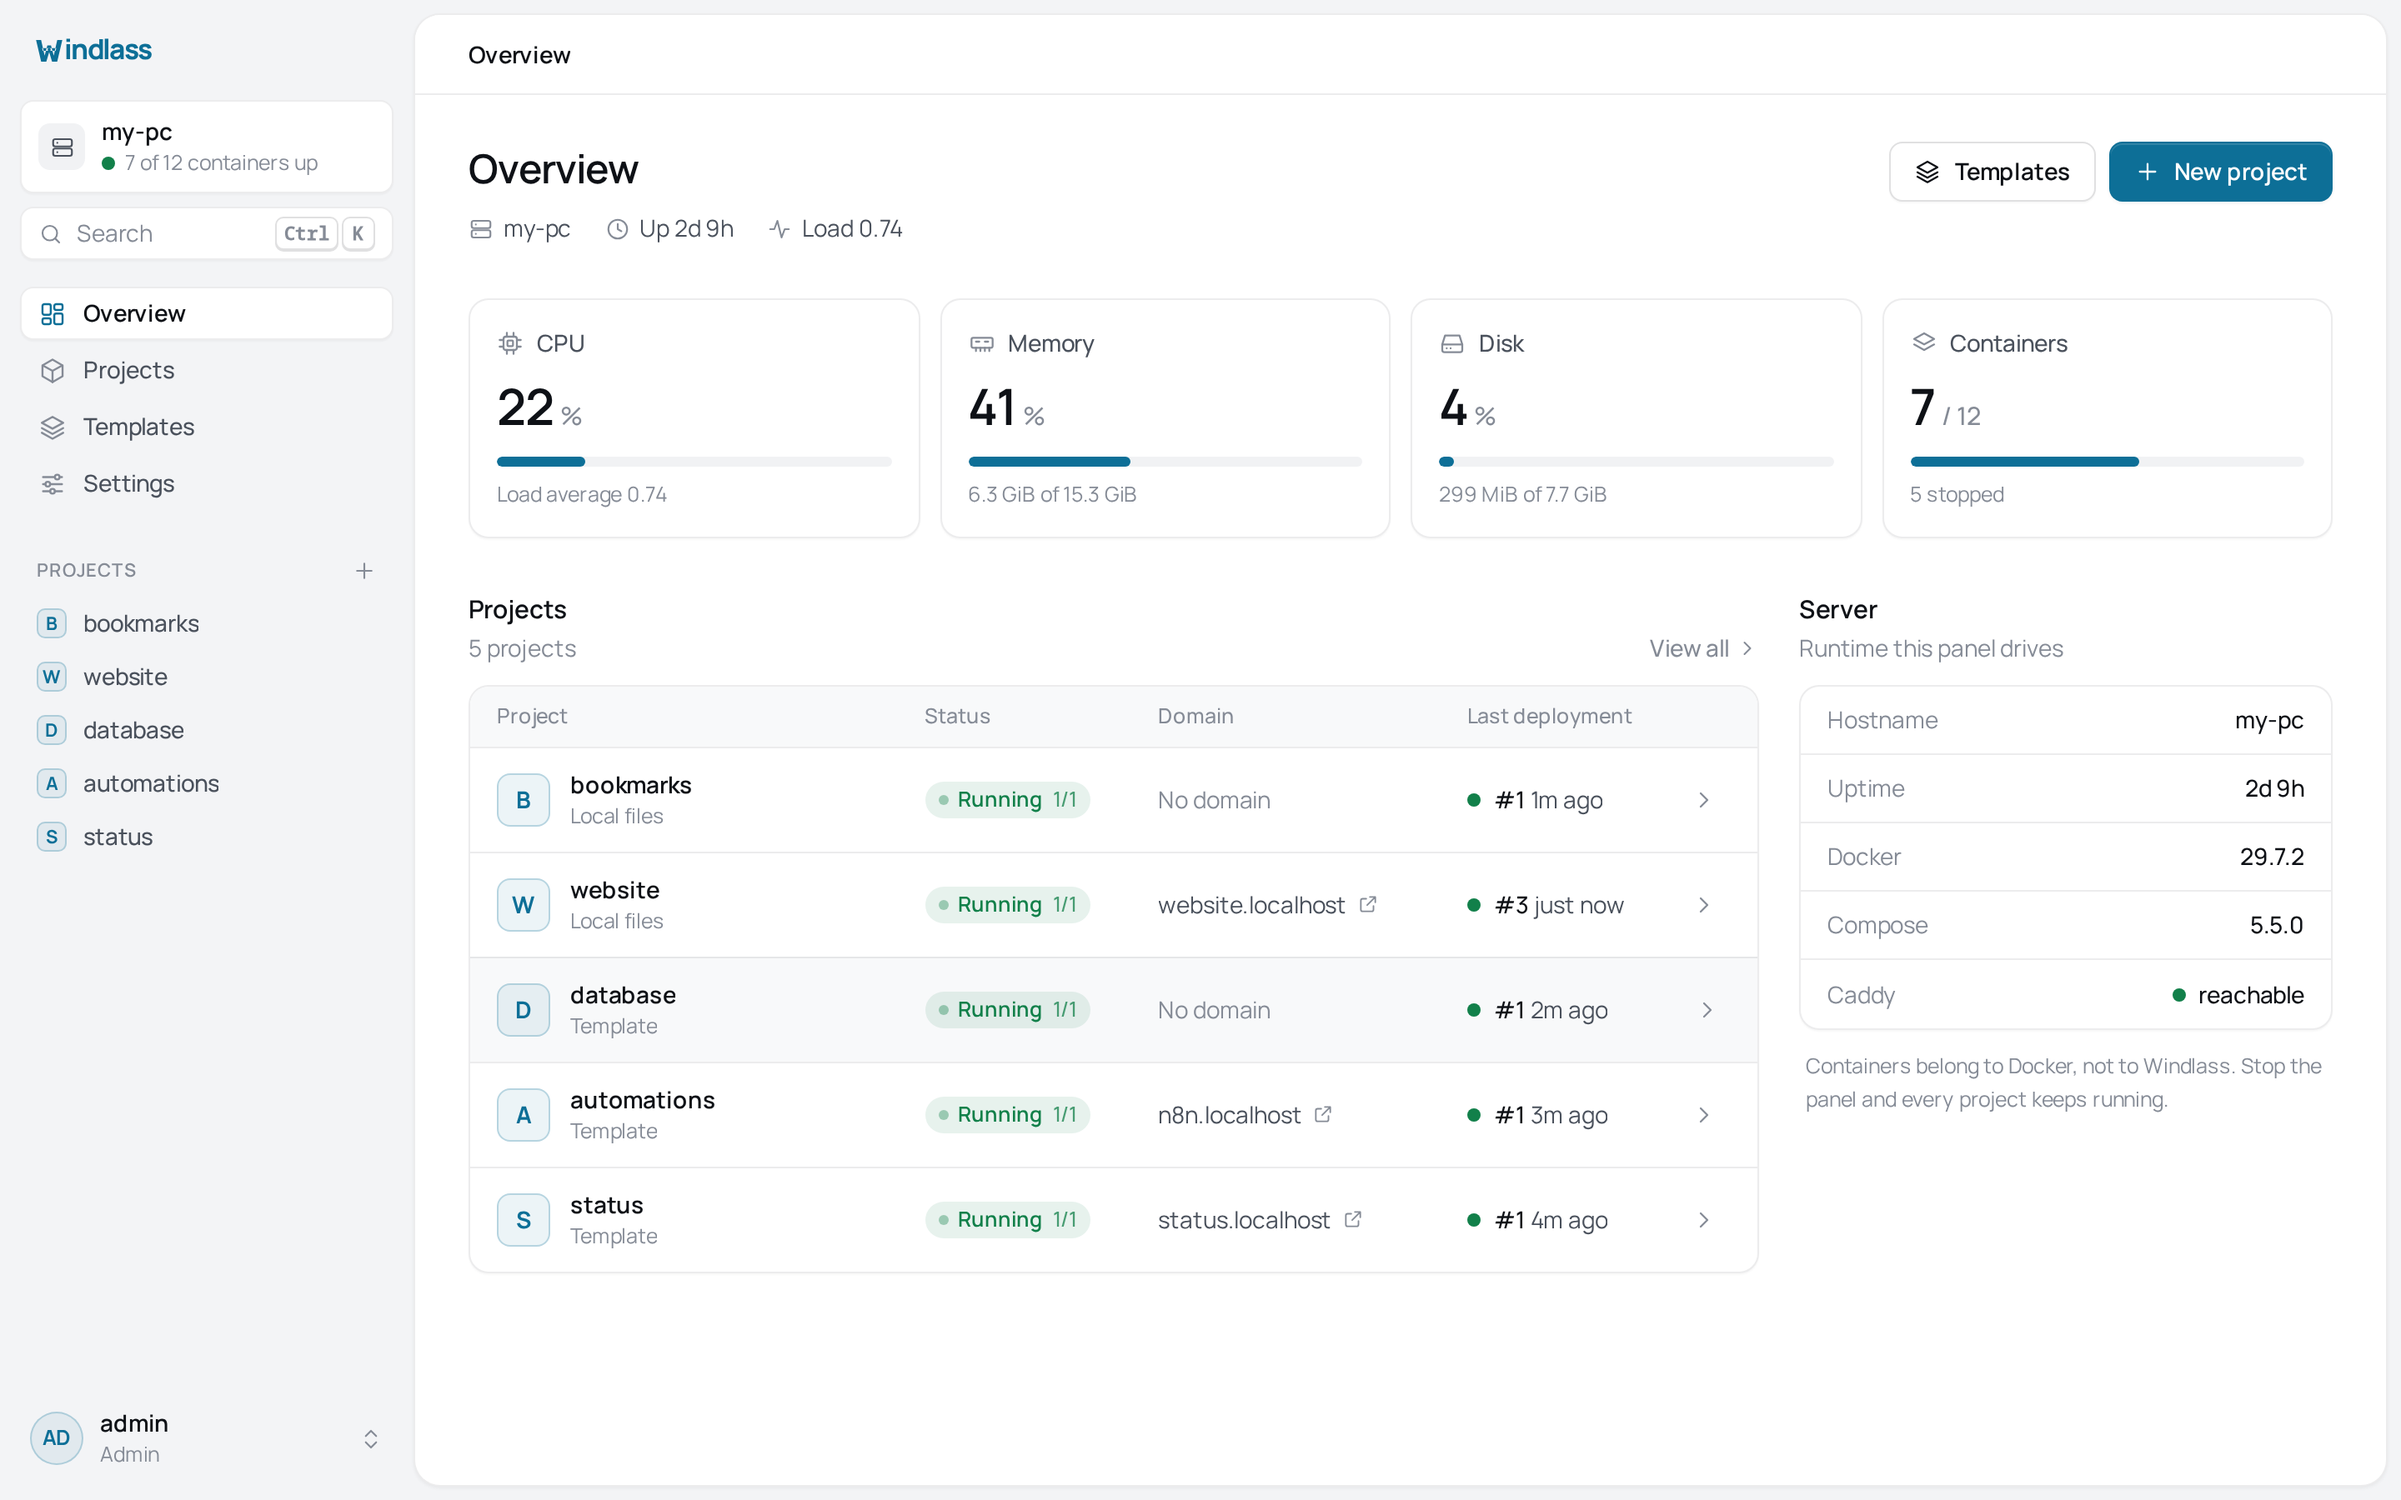
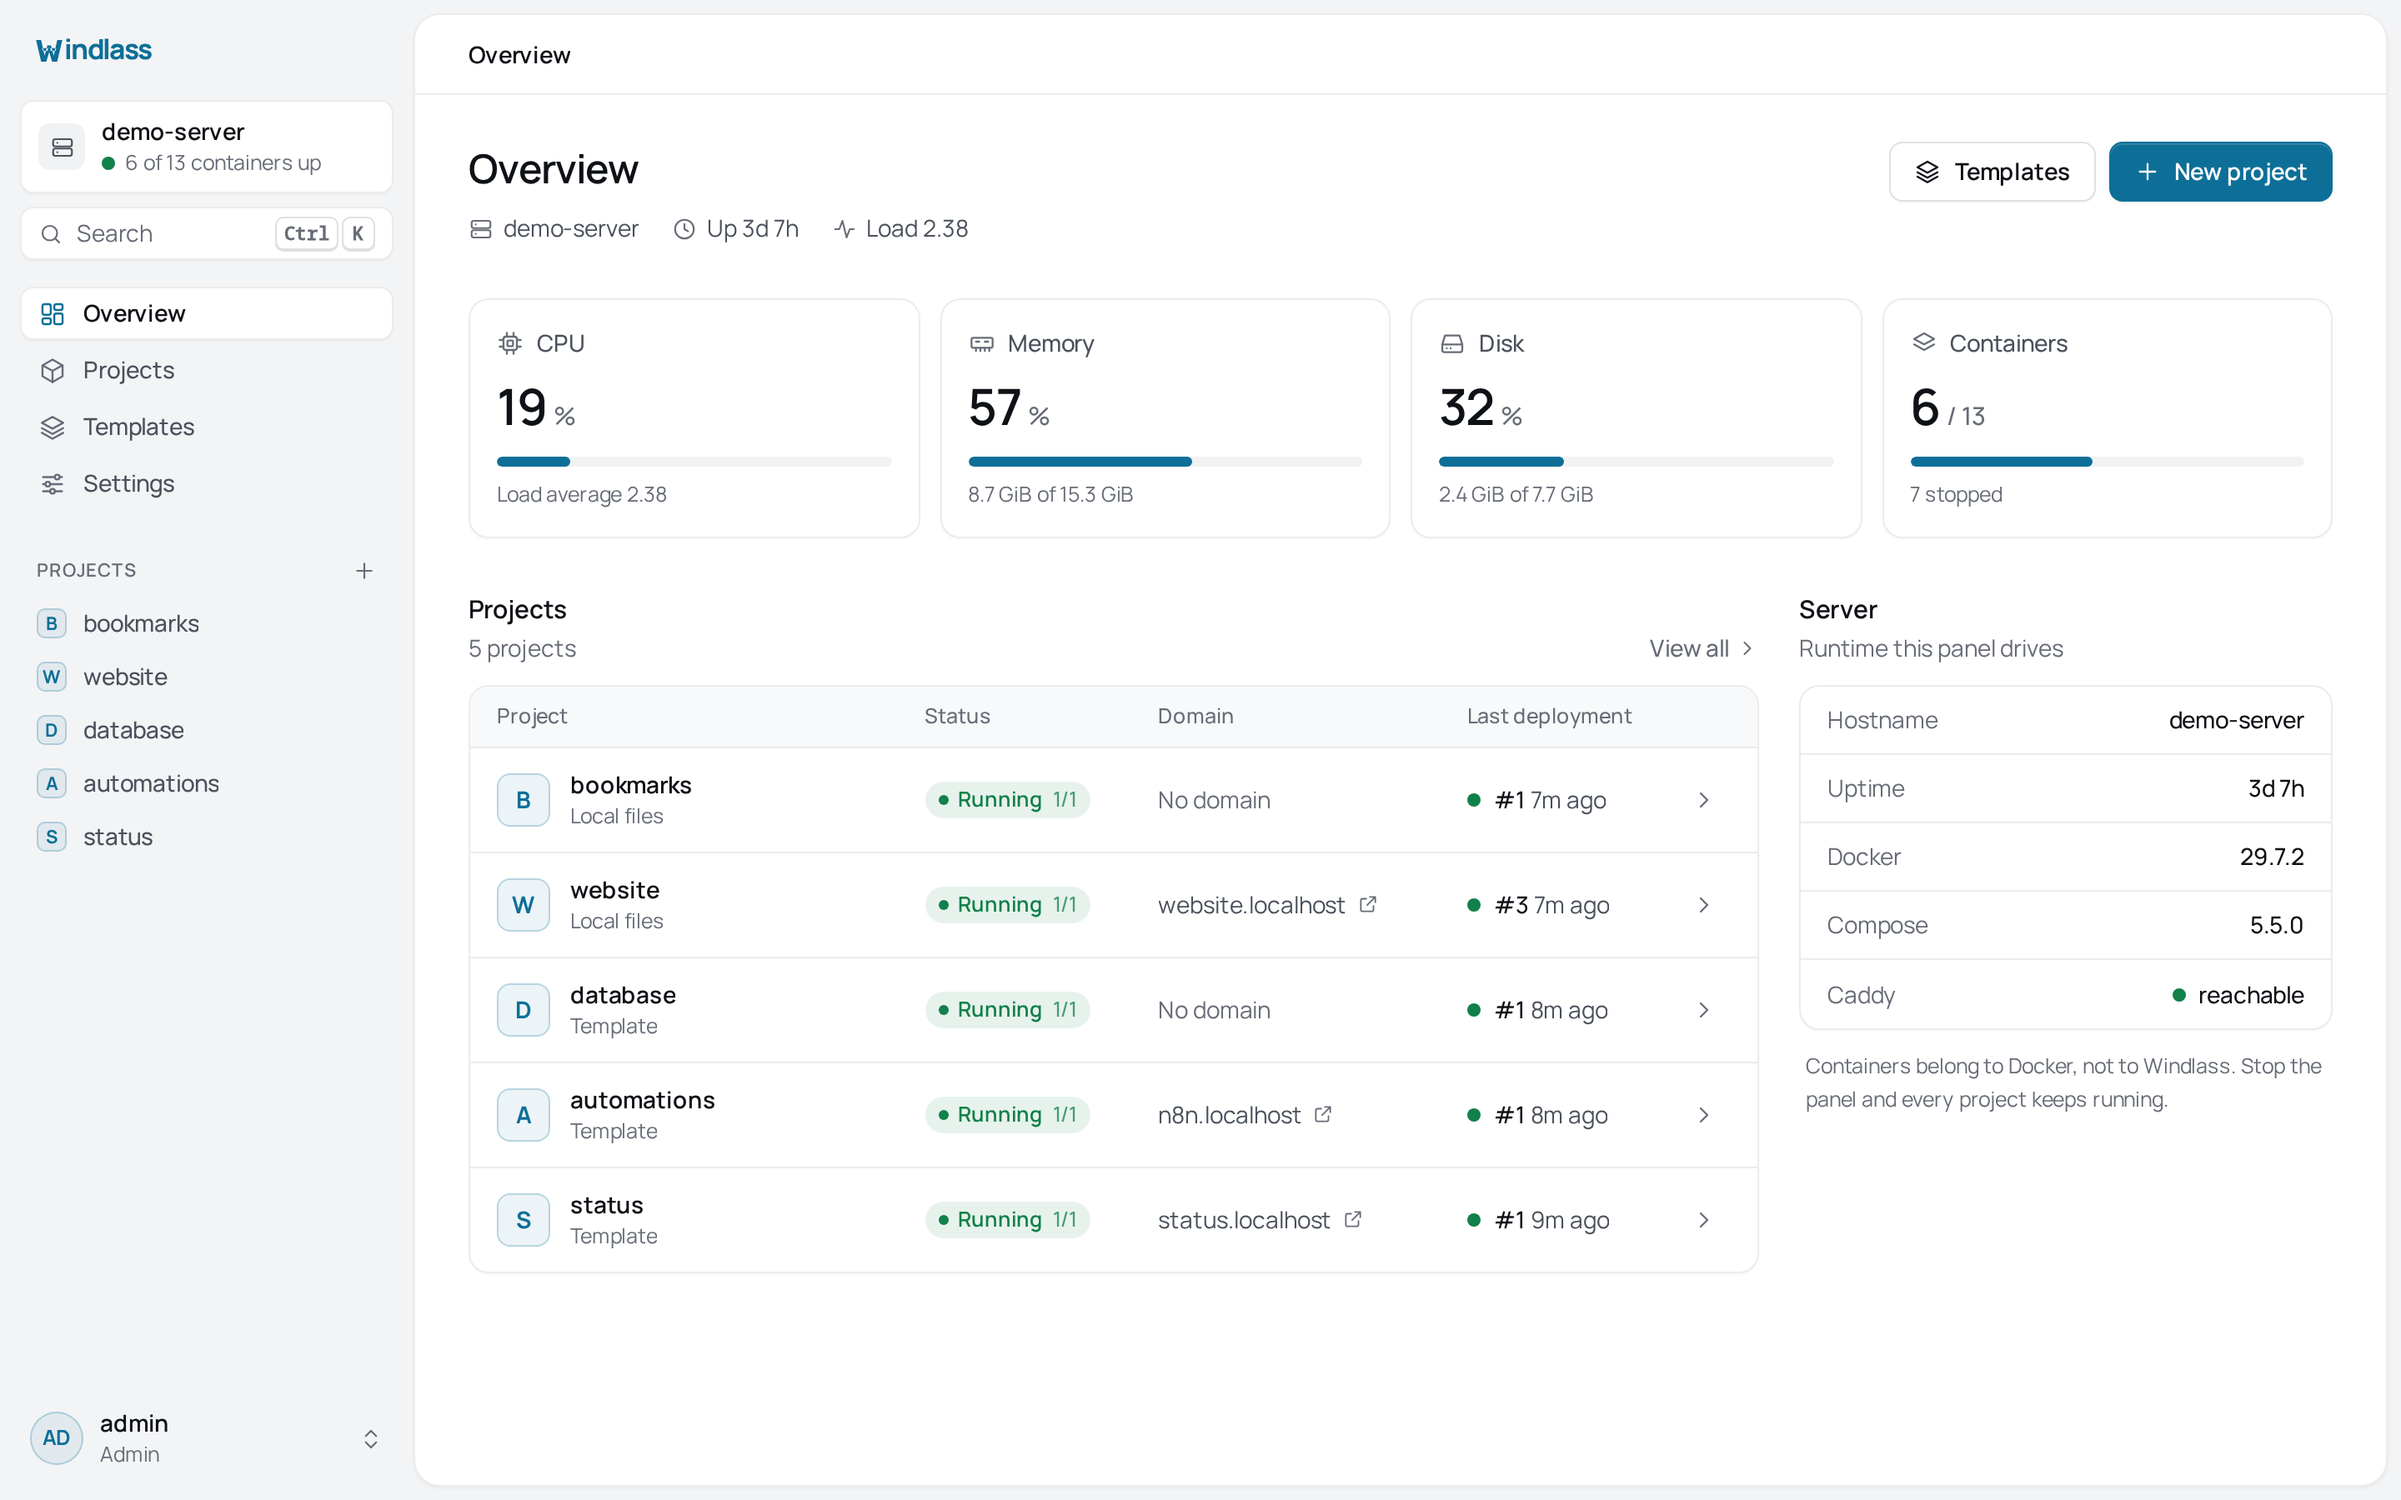
Reshoot the docs captures and drop the personal contact
The screenshots and deploy.gif showed the laptop's hostname in the
sidebar and dashboard. All 16 stills and the GIF are reshot from a fresh
panel on hostname demo-server with the same five-project dataset, which
also picks up the new muted-text contrast and the Staging card.

The Code of Conduct sent reports to a personal address. It now points at
the repository's private reporting form, which only maintainers see.

diff --git a/CODE_OF_CONDUCT.md b/CODE_OF_CONDUCT.md
@@ -34,8 +34,10 @@ anyone representing the project elsewhere.
 
 ## Enforcement
 
-Report a problem to **abiodauda@gmail.com**. Reports are handled privately, and the reporter's
-identity is not disclosed.
+Report a problem privately through
+[Security → Report a vulnerability](https://github.com/Sulaiman-Dauda/windlass/security/advisories/new),
+which only the maintainers can see; it takes conduct reports as well as security ones. Reports
+are handled privately, and the reporter's identity is not disclosed.
 
 Maintainers may edit or delete comments, close issues and pull requests, or ban an account,
 proportionate to the situation. Sustained or serious breaches lead to a permanent ban.
